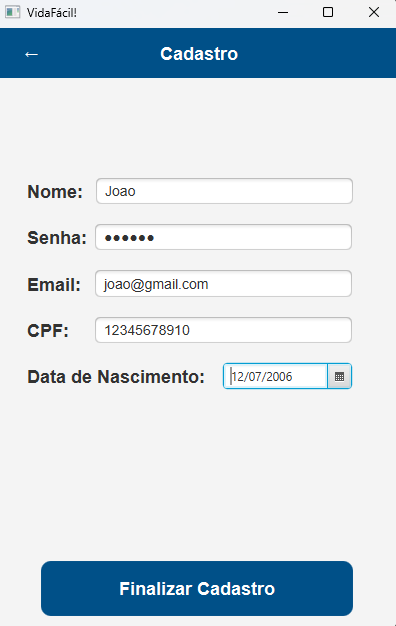
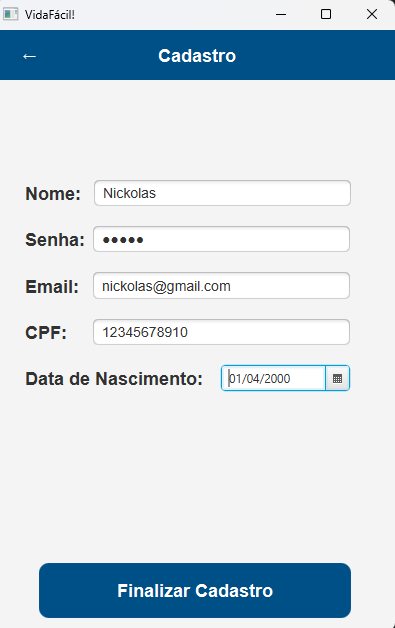
docs and feat: Update README.md pt.3 and added some validatons

diff --git a/src/main/java/vidafacil/controller/CadastroController.java b/src/main/java/vidafacil/controller/CadastroController.java
@@ -49,6 +49,7 @@ public class CadastroController {
             if (nome.trim().isEmpty()) {
                 throw new RuntimeException("O campo Nome está vazio!");
             }
+            nome = nome.substring(0, 1).toUpperCase() + nome.substring(1).toLowerCase();
 
             if (senha.trim().isEmpty()) {
                 throw new RuntimeException("O campo Senha está vazio!");
@@ -58,15 +59,22 @@ public class CadastroController {
 
             if (email.trim().isEmpty()) {
                 throw new RuntimeException("O campo Email está vazio!");
+            } else if (!email.contains("@")) {
+                throw new RuntimeException("Email inválido!");
             }
 
-            if(cpf.isEmpty()) {
+            if(cpf.trim().isEmpty()) {
                 throw new RuntimeException("O campo CPF está vazio!");
+            } else if (cpf.length() != 11) {
+                throw new RuntimeException("CPF invalido!");
             }
-
+            
             if (dataNascimento == null) {
                 throw new RuntimeException("O campo Data de Nascimento está vazio!");
+            } else if (dataNascimento.isAfter(LocalDate.now())) {
+                throw new RuntimeException("Data de nascimento inválida!");
             }
+
 
             Idoso idoso = new Idoso(nome, senhaCriptografada, email, cpf, dataNascimento);
             dao.cadastrarIdoso(idoso);

diff --git a/README.md b/README.md
@@ -5,7 +5,7 @@
 
 O **Vida Fácil** é um aplicativo de gerenciamento de medicamentos focado em promover a autonomia, segurança e qualidade de vida da pessoa idosa.
 
-Este projeto nasceu inicialmente como uma proposta de curricularização integrando três disciplinas acadêmicas (Sistemas de Informação, Linguagem de Programação e Engenharia de Software 1. No semestre seguinte, o projeto foi totalmente refeito para a matéria de Engenharia de Software 2 como forma de consolidar uma base arquitetural sólida, moderna e focada na excelência da experiência do usuário.
+Este projeto nasceu inicialmente como uma proposta de curricularização integrando três disciplinas acadêmicas (Sistemas de Informação, Linguagem de Programação e Engenharia de Software 1). No semestre seguinte, o projeto foi totalmente refeito para a matéria de Engenharia de Software 2 como forma de consolidar uma base arquitetural sólida, moderna e focada na excelência da experiência do usuário.
 
 ---
 
@@ -36,14 +36,13 @@ Para suportar o funcionamento da aplicação de forma ágil e segura, o sistema 
 
 Abaixo estão algumas telas do funcionamento do sistema:
 
+| Tela Inicial |               Cadastro de Usuário                |               Tela de Login                |
+| :---: |:------------------------------------------------:|:------------------------------------------:|
+| ![Tela Inicial](docs/imagens/tela-inicial.png) | ![Tela Cadastro](docs/imagens/tela-cadastro.png) | ![Tela Login](docs/imagens/tela-login.png) |
 
-|                Login / Inicial                 |               Menu Principal                | Cadastro de Usuário |
-|:----------------------------------------------:|:-------------------------------------------:| :---: |
-| ![Tela Inicial](docs/imagens/tela-menupng.png) | ![Tela Menu](docs/imagens/tela-inicial.png) | ![Tela Cadastro](docs/imagens/tela-cadastro.png) |
-
-| Meus Medicamentos | Cadastrar Medicamento |
-| :---: | :---: |
-| ![Tela Medicamentos](docs/imagens/tela-medicamentos.png) | ![Cadastro Medicamentos](docs/imagens/tela-cadastromedicamentos.png) |
+| Menu Principal | Meus Medicamentos | Cadastrar Medicamento |
+| :---: | :---: | :---: |
+| ![Tela Menu](docs/imagens/tela-menu.png) | ![Tela Medicamentos](docs/imagens/tela-medicamentos.png) | ![Cadastro Medicamentos](docs/imagens/tela-cadastromedicamentos.png) |
 
 ---
 
@@ -62,6 +61,7 @@ O aplicativo continuará em evolução para agregar ainda mais valor ao bem-esta
 Projeto desenvolvido em conjunto pela equipe:
 
 * Caio Henrique Felix dos Reis Lopes
+* Fernando Freire Oliveira
 * Maria Eduarda Ferreira Santos
 * Miguel dos Santos Conforte
 * Nickolas Aranha Martinez
